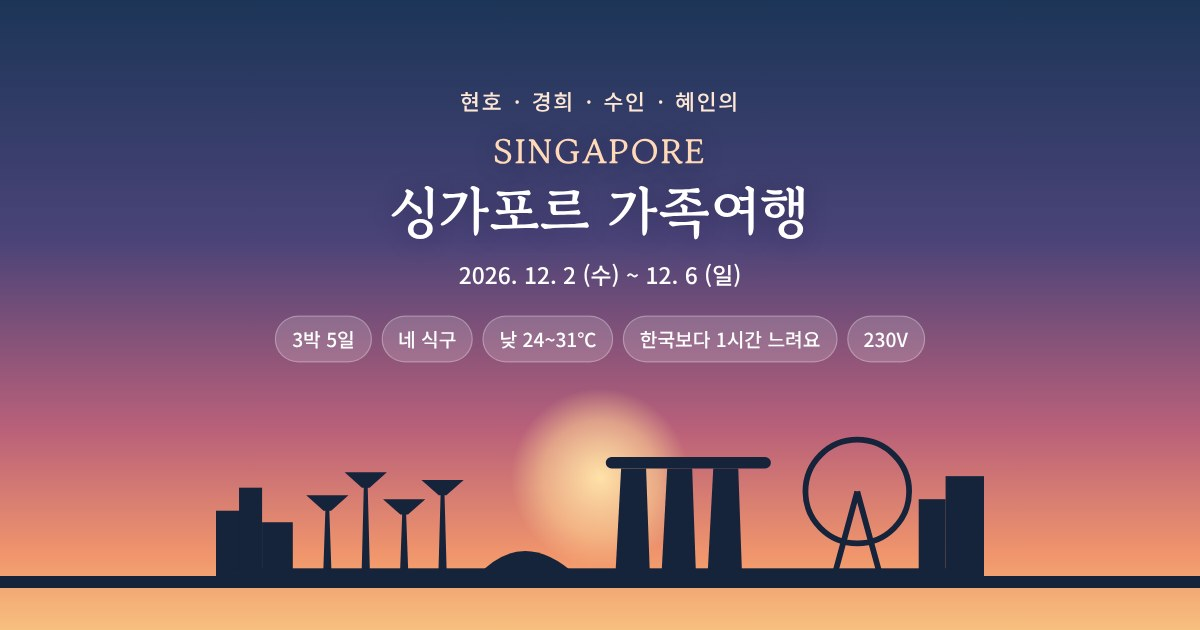
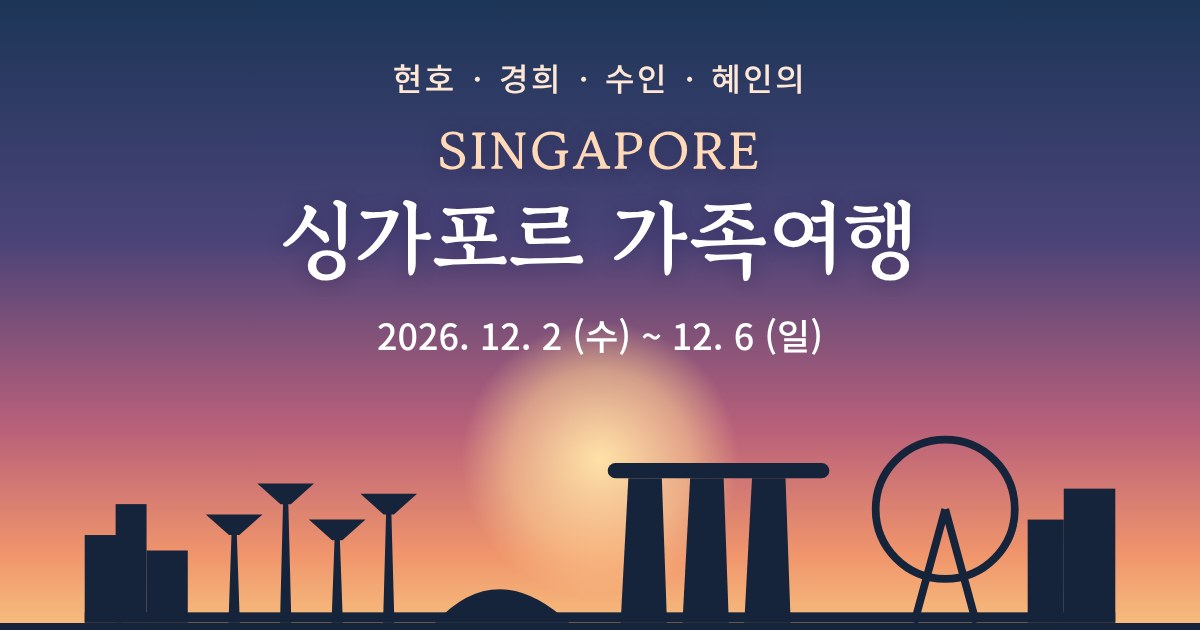
New link thumbnail: title over sunset skyline
Claude-Session: https://claude.ai/code/session_01L2aYEXFB66TzMMbesmNc18

diff --git a/index.html b/index.html
@@ -9,7 +9,7 @@
 <meta property="og:title" content="싱가포르 가족여행">
 <meta property="og:description" content="현호 · 경희 · 수인 · 혜인의 싱가포르 여행 · 12/2 ~ 12/6 · 3박 5일">
 <meta property="og:url" content="https://jisuin2929-design.github.io/singapore-trip/">
-<meta property="og:image" content="https://jisuin2929-design.github.io/singapore-trip/img/og.jpg">
+<meta property="og:image" content="https://jisuin2929-design.github.io/singapore-trip/img/og.jpg?v=2">
 <meta property="og:image:width" content="1200">
 <meta property="og:image:height" content="630">
 <meta name="twitter:card" content="summary_large_image">
